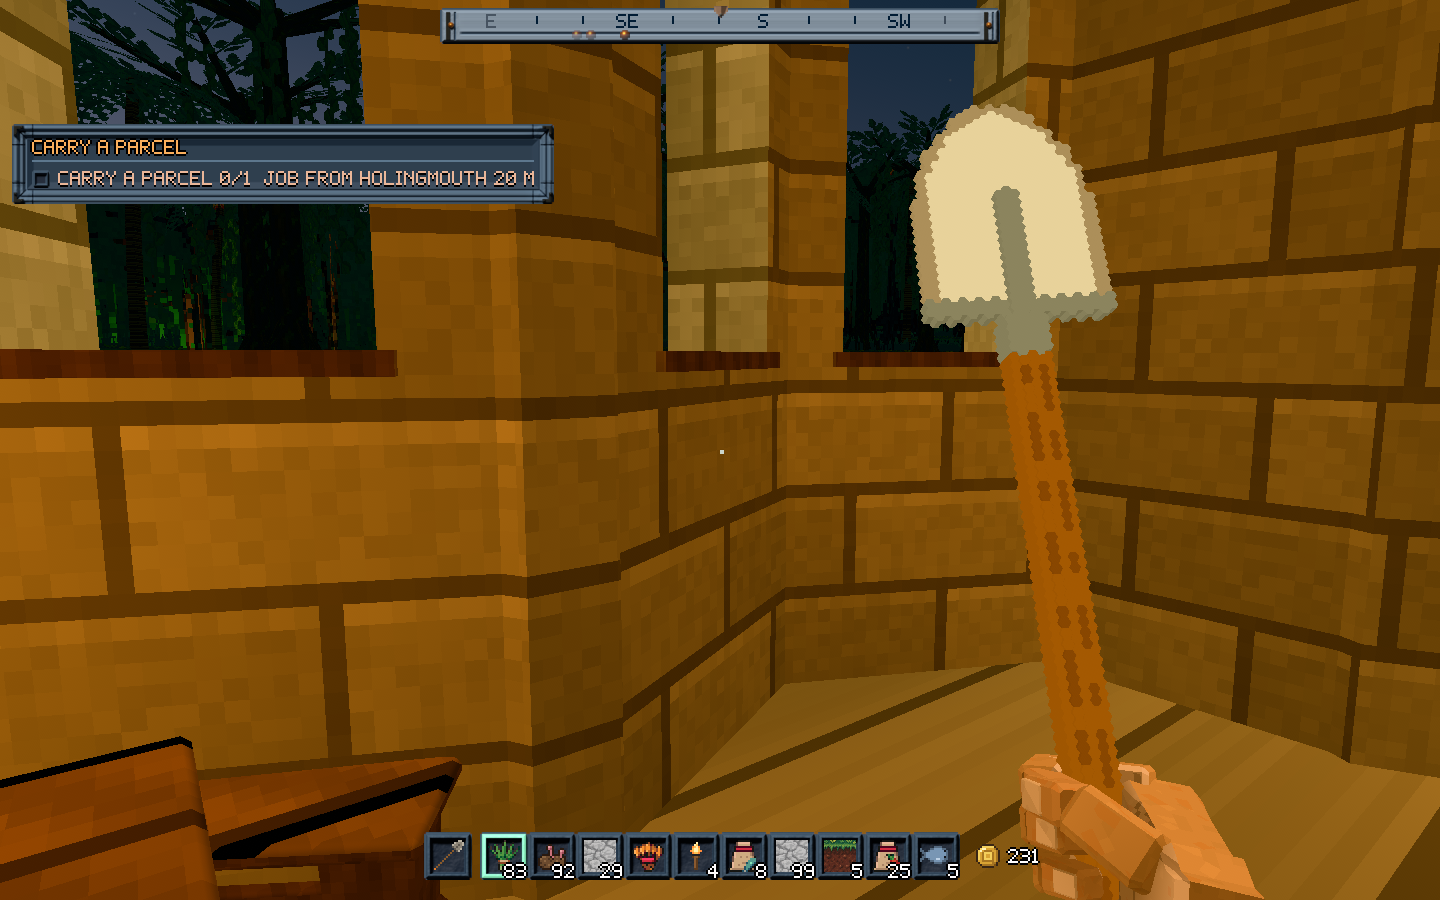
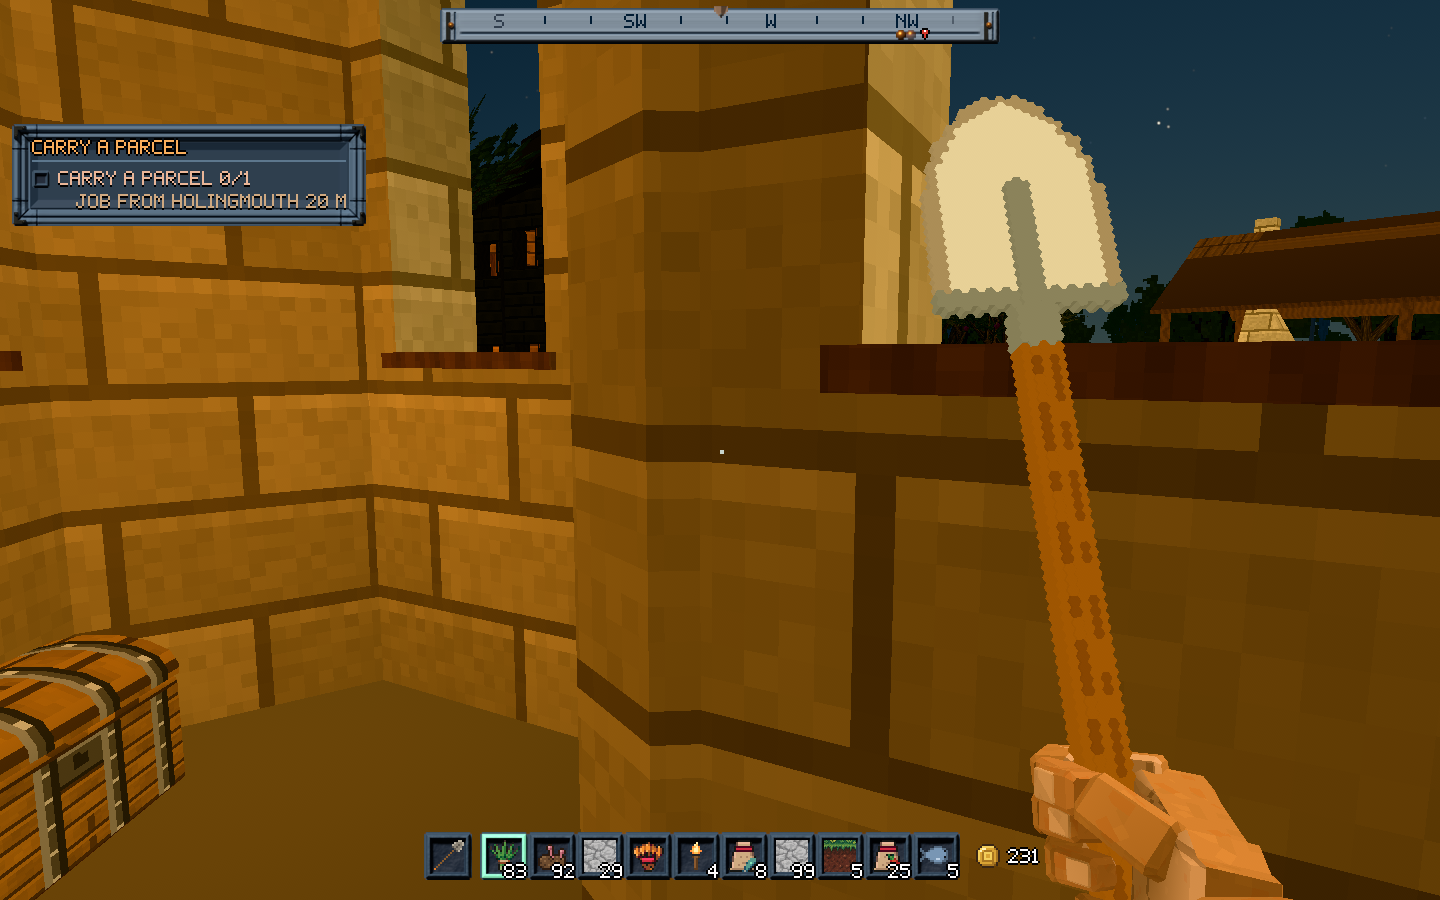
job-waypoints 8: where to go on a dim line under the objective
Claude-Session: https://claude.ai/code/session_01RGPQurV1fJSBj7fidw2Mo4

diff --git a/crates/pbd-app/src/desktop/missions.rs b/crates/pbd-app/src/desktop/missions.rs
@@ -42,6 +42,11 @@ pub struct TrackerCheck(pub usize);
 #[derive(Component)]
 pub struct TrackerText(pub usize);
 
+/// The line under an objective that says where to go (`job-waypoints`
+/// design 8): dim and indented under its row.
+#[derive(Component)]
+pub struct TrackerHint(pub usize);
+
 /// The most objectives a mission has (the shipped tree's most is three).
 const TRACKER_ROWS: usize = 4;
 /// An icon in the tracker, UI pixels.
@@ -148,6 +153,15 @@ pub fn spawn(mut commands: Commands, kit: Res<UiKit>) {
                         TrackerText(k),
                     ));
                 });
+                tracker.spawn((
+                    KitText::new(Localized::empty(), ui_kit::TEXT_DIM).shadow(ui_kit::INK),
+                    Node {
+                        display: Display::None,
+                        margin: UiRect::left(px(22)),
+                        ..default()
+                    },
+                    TrackerHint(k),
+                ));
             }
         });
     // The tabs, over whichever of the two panels is open.
@@ -235,7 +249,19 @@ pub fn show_line(
     ),
     mut title_icon: Query<&mut ImageNode, (With<TrackerTitleIcon>, Without<TrackerIcon>)>,
     mut rows: Query<(&TrackerRow, &mut Node), Without<TrackerIcon>>,
-    mut texts: Query<(&TrackerText, &mut KitText), Without<TrackerTitle>>,
+    (mut texts, mut hints): (
+        Query<(&TrackerText, &mut KitText), (Without<TrackerTitle>, Without<TrackerHint>)>,
+        Query<
+            (&TrackerHint, &mut KitText, &mut Node),
+            (
+                Without<TrackerTitle>,
+                Without<TrackerText>,
+                Without<TrackerRow>,
+                Without<TrackerIcon>,
+                Without<TrackerPath>,
+            ),
+        >,
+    ),
     mut icons: Query<
         (&TrackerIcon, &mut ImageNode, &mut Node),
         (Without<TrackerTitleIcon>, Without<TrackerRow>),
@@ -450,38 +476,64 @@ pub fn show_line(
                         "missions.objective_metres",
                         &[("label", &o.label), ("count", &n), ("total", &o.count)],
                     )
-                } else if o.kind == pbd_core::missions::Kind::Deliver
-                    && n < o.count
-                    && let Some((town, d)) = &parcel_to
-                {
-                    let to = pbd_app::compass::name_line(town, *d);
-                    Localized::verbatim(format!("{} {n}/{}  {}", o.label, o.count, to.as_str()))
-                } else if matches!(
-                    o.kind,
-                    pbd_core::missions::Kind::Deliver
-                        | pbd_core::missions::Kind::Job
-                        | pbd_core::missions::Kind::Escort
-                        | pbd_core::missions::Kind::Repair
-                        | pbd_core::missions::Kind::Light
-                        | pbd_core::missions::Kind::Goodwill
-                ) && n < o.count
-                    && let Some((town, d)) = &parcel_from
-                {
-                    tr_with(
-                        "missions.parcel_from",
-                        &[
-                            ("label", &o.label),
-                            ("count", &n),
-                            ("total", &o.count),
-                            ("town", town),
-                            ("distance", &pbd_app::compass::distance_text(*d)),
-                        ],
-                    )
                 } else {
                     Localized::verbatim(format!("{} {n}/{}", o.label, o.count))
                 },
                 c,
             );
+        }
+    }
+    // Where to go, under the line (`job-waypoints` design 8).
+    for (which, mut words, mut node) in &mut hints {
+        let hint = objective(which.0).and_then(|o| {
+            let n = counts.get(which.0).copied().unwrap_or(0);
+            if n >= o.count {
+                return None;
+            }
+            use pbd_core::missions::Kind;
+            if o.kind == Kind::Deliver
+                && let Some((town, d)) = &parcel_to
+            {
+                return Some(tr_with(
+                    "missions.parcel_to",
+                    &[
+                        ("town", town),
+                        ("distance", &pbd_app::compass::distance_text(*d)),
+                    ],
+                ));
+            }
+            if matches!(
+                o.kind,
+                Kind::Deliver
+                    | Kind::Job
+                    | Kind::Escort
+                    | Kind::Repair
+                    | Kind::Light
+                    | Kind::Goodwill
+            ) && let Some((town, d)) = &parcel_from
+            {
+                return Some(tr_with(
+                    "missions.parcel_from",
+                    &[
+                        ("town", town),
+                        ("distance", &pbd_app::compass::distance_text(*d)),
+                    ],
+                ));
+            }
+            None
+        });
+        let display = if hint.is_some() {
+            Display::Flex
+        } else {
+            Display::None
+        };
+        if node.display != display {
+            node.display = display;
+        }
+        if let Some(hint) = hint
+            && words.text != hint
+        {
+            words.text = hint;
         }
     }
     for (which, mut image) in &mut checks {

diff --git a/openspec/changes/job-waypoints/design.md b/openspec/changes/job-waypoints/design.md
@@ -73,3 +73,11 @@ map. With the tracker's "Job from <town>" line, a delivery now names both
 ends: the job giver to start, the drop-off town to finish.
 `docs/screenshots/job-waypoints/giver-pin-compass.png`: the red pin by NW,
 beside Holingmouth's studs.
+
+## 8. Where to go on its own line (owner, 2026-11-27)
+
+"would place that on two lines", "maybe smaller text underneath big text".
+The kit's pixel font has one size and the tracker already uses it, so the
+hint is a second line under its objective, dim (`TEXT_DIM`) and indented past
+the check box: "Job from Holingmouth 20 m", or "Drop-off at Holbrook 1.2 km"
+with a parcel carried. The objective line keeps its count alone.
